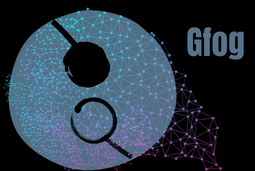
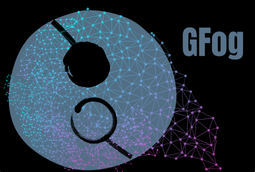
updated readme and assets

diff --git a/examples/testfunctions/plotting.py b/examples/testfunctions/plotting.py
@@ -13,9 +13,15 @@ from loguru import logger
 from tqdm import tqdm
 
 # Set seaborn style for better aesthetics
-sns.set_style("whitegrid")
-sns.set_palette("husl")
-plt.style.use("seaborn-v0_8-darkgrid")
+sns.set_style("darkgrid")
+sns.set_palette("colorblind")
+plt.rcParams["figure.facecolor"] = "#222222"  # Dark grey background
+plt.rcParams["axes.facecolor"] = "#222222"    # Dark grey axes background
+plt.rcParams["text.color"] = "white"          # White text
+plt.rcParams["axes.labelcolor"] = "white"     # White axis labels
+plt.rcParams["xtick.color"] = "white"         # White x-axis ticks
+plt.rcParams["ytick.color"] = "white"         # White y-axis ticks
+plt.rcParams["axes.edgecolor"] = "white"      # White axis borders
 
 
 def plot_optimization_gif(
@@ -25,7 +31,7 @@ def plot_optimization_gif(
     buffer_history: List[torch.Tensor],
     iteration_numbers: List[int],
     filename: str = "optimization.gif",
-    cmap: str = "crest",
+    cmap: str = "viridis",
     n_contours: int = 30,
     figsize: tuple = (10, 8),
     show_minima: bool = True,
@@ -76,12 +82,12 @@ def plot_optimization_gif(
             Y,
             Z,
             levels=n_contours,
-            cmap=sns.color_palette(cmap, as_cmap=True),
+            cmap=cmap,  # viridis is inherently colorblind-friendly
             alpha=0.85,
             norm=norm,
         )
         ax.contour(
-            X, Y, Z, levels=n_contours, colors="white", alpha=0.4, linewidths=1.0
+            X, Y, Z, levels=n_contours, colors="lightgray", alpha=0.6, linewidths=1.0
         )
 
         # Plot known minima
@@ -90,7 +96,7 @@ def plot_optimization_gif(
             and hasattr(test_function, "known_minima")
             and test_function.known_minima is not None
         ):
-            minima_color = sns.color_palette("Set2")[4]  # Nice purple
+            minima_color = "#D55E00"  # Colorblind-friendly orange
             for minimum in test_function.known_minima:
                 min_np = minimum.detach().cpu().numpy()
                 ax.plot(
@@ -111,7 +117,7 @@ def plot_optimization_gif(
             points_to_show = buffer_points[:n_show]
             points_np = points_to_show.detach().cpu().numpy()
 
-            buffer_color = sns.color_palette("Set2")[1]
+            buffer_color = "#FFFFFF"  # White for maximum contrast against viridis
             ax.scatter(
                 points_np[:, 0],
                 points_np[:, 1],

diff --git a/README.md b/README.md
@@ -1,26 +1,15 @@
 <div align="center">
-  <img src="assets/gfog.png" alt="Gfog Logo" width="250">
+  <img src="assets/gfog.png" alt="GFog Logo" width="250">
 </div>
 
-# Gfog - Gradient-Free Optimization via Gradients
+# GFog - Gradient-Free Optimization via Gradients
 
-**Gfog** is a gradient-free optimization library using GANs to find solutions to black-box optimization problems — potentially discovering multiple optima.
+**GFog** is a gradient-free optimization library using GANs to find solutions to black-box optimization problems — potentially discovering multiple optima.
 It builds upon and improves the method proposed in the paper [A GAN based solver of black-box inverse problems](https://openreview.net/pdf?id=rJeNnm25US) (OptimGan)
-
-## Example: [Himmelblau's function](https://en.wikipedia.org/wiki/Himmelblau%27s_function)
-
-<p align="center">
-  <img src="./assets/example.gif" alt="Demo" width="500" />
-</p>
-
-<p align="center"><em>Gfog finding all four minima of the Himmelblau function
-</em></p>
-
----
 
 ## Quick Start
 
-To run the example shown in [at the top](#Gfog) run the following from the Gfog base directory:
+To run the example shown [below](#Example) run the following from the GFog base directory:
 
 ```python
 # create and activate venv
@@ -37,24 +26,47 @@ uv pip install -e .
 python examples/testfunctions/example.py
 ```
 
-## Code Example
-
-TODO
-
 ## Improvements to OptimGan
 
-**Gfog** introduces two improvements over **OptimGan**:
+**GFog** introduces two improvements over **OptimGan**:
 
 1. Curiosity Loss
 
    **OptimGan** often stalled before reaching a solution. This is counter intuitive — one might expect a GAN to explore and even discover multiple solutions.
-   **Gfog** adds a curiosity loss that encourages exploration and often leads to discovering multiple solutions.
+   **GFog** adds a curiosity loss that encourages exploration and often leads to discovering multiple solutions.
 
 2. Hierarchically Sorted Buffer
 
-   **Gfog** supports multiple objectives using a hierarchically sorted buffer.
+   **GFog** supports multiple objectives using a hierarchically sorted buffer.
    For example, in a constrained optimization problem, each constraint can define a hierarchy level.
    This avoids the need to merge objectives of potentially vastly different magnitudes into a single loss
+
+## Example: [Himmelblau's function](https://en.wikipedia.org/wiki/Himmelblau%27s_function)
+
+<div align="center">
+  <table>
+    <tr>
+      <td align="center">
+        <img src="./assets/example.gif" alt="With Curiosity" width="400" />
+        <br>
+        <em>With Curiosity Loss</em>
+      </td>
+      <td align="center">
+        <img src="./assets/example_not_curious.gif" alt="Without Curiosity" width="400" />
+        <br>
+        <em>Without Curiosity Loss</em>
+      </td>
+    </tr>
+  </table>
+</div>
+
+<p align="center"><em>Comparison showing how curiosity loss helps discover all four minima but also taking more iterations</em></p>
+
+---
+
+## Code Example
+
+TODO
 
 ## How it works
 
